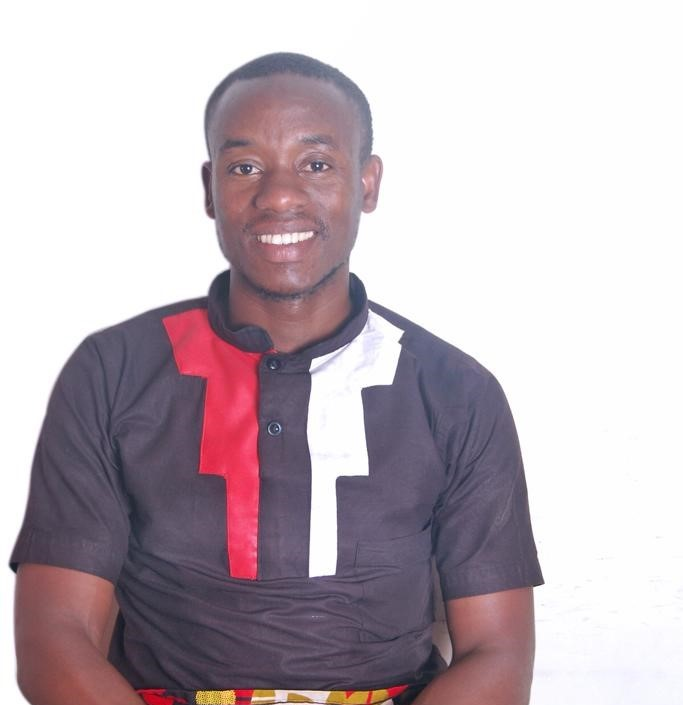
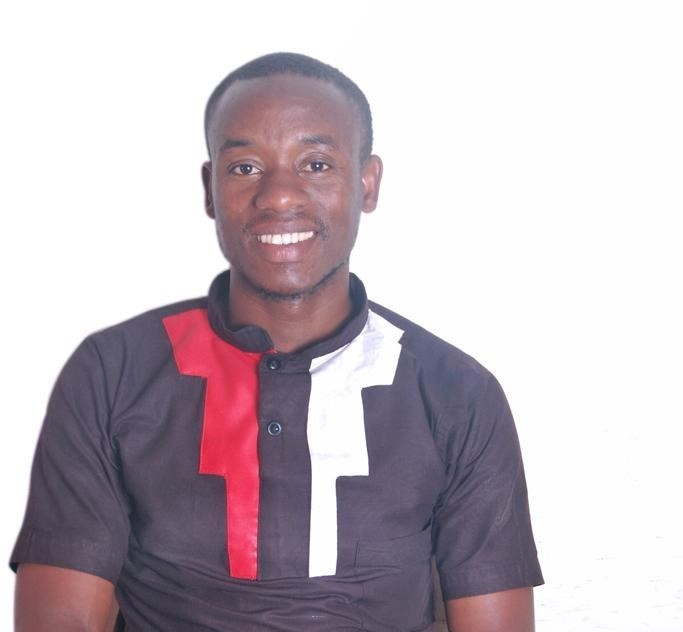
Added committee member

Changed region(s): [[0.0, 0.0601, 0.7994, 1.0], [0.7687, 0.962, 0.7994, 1.0], [0.6764, 0.7516, 0.7072, 0.7816]]

diff --git a/index.html b/index.html
@@ -479,13 +479,13 @@
 				<div class="col-lg-3 col-md-6">
 					<div class="team_item">
 						<div class="team_img">
-							<img class="img-fluid" src="img/voluteer/waswa2.jpg" alt="">
+							<img class="img-fluid" src="img/voluteer/waswa1.jpg" alt="">
 						</div>
 						<div class="team_name">
 							<h4>Isaac Wasswa</h4>
 							<p>Programs Manager</p>
 							<p class="mt-20">
-								Together We Can in Christ Jesus.
+								 We Can in Christ Jesus.
 							</p>
 							<div class="social">
 								<a href="https://www.facebook.com/isaac.wasswa.9"><i class="fa fa-facebook"></i></a>
